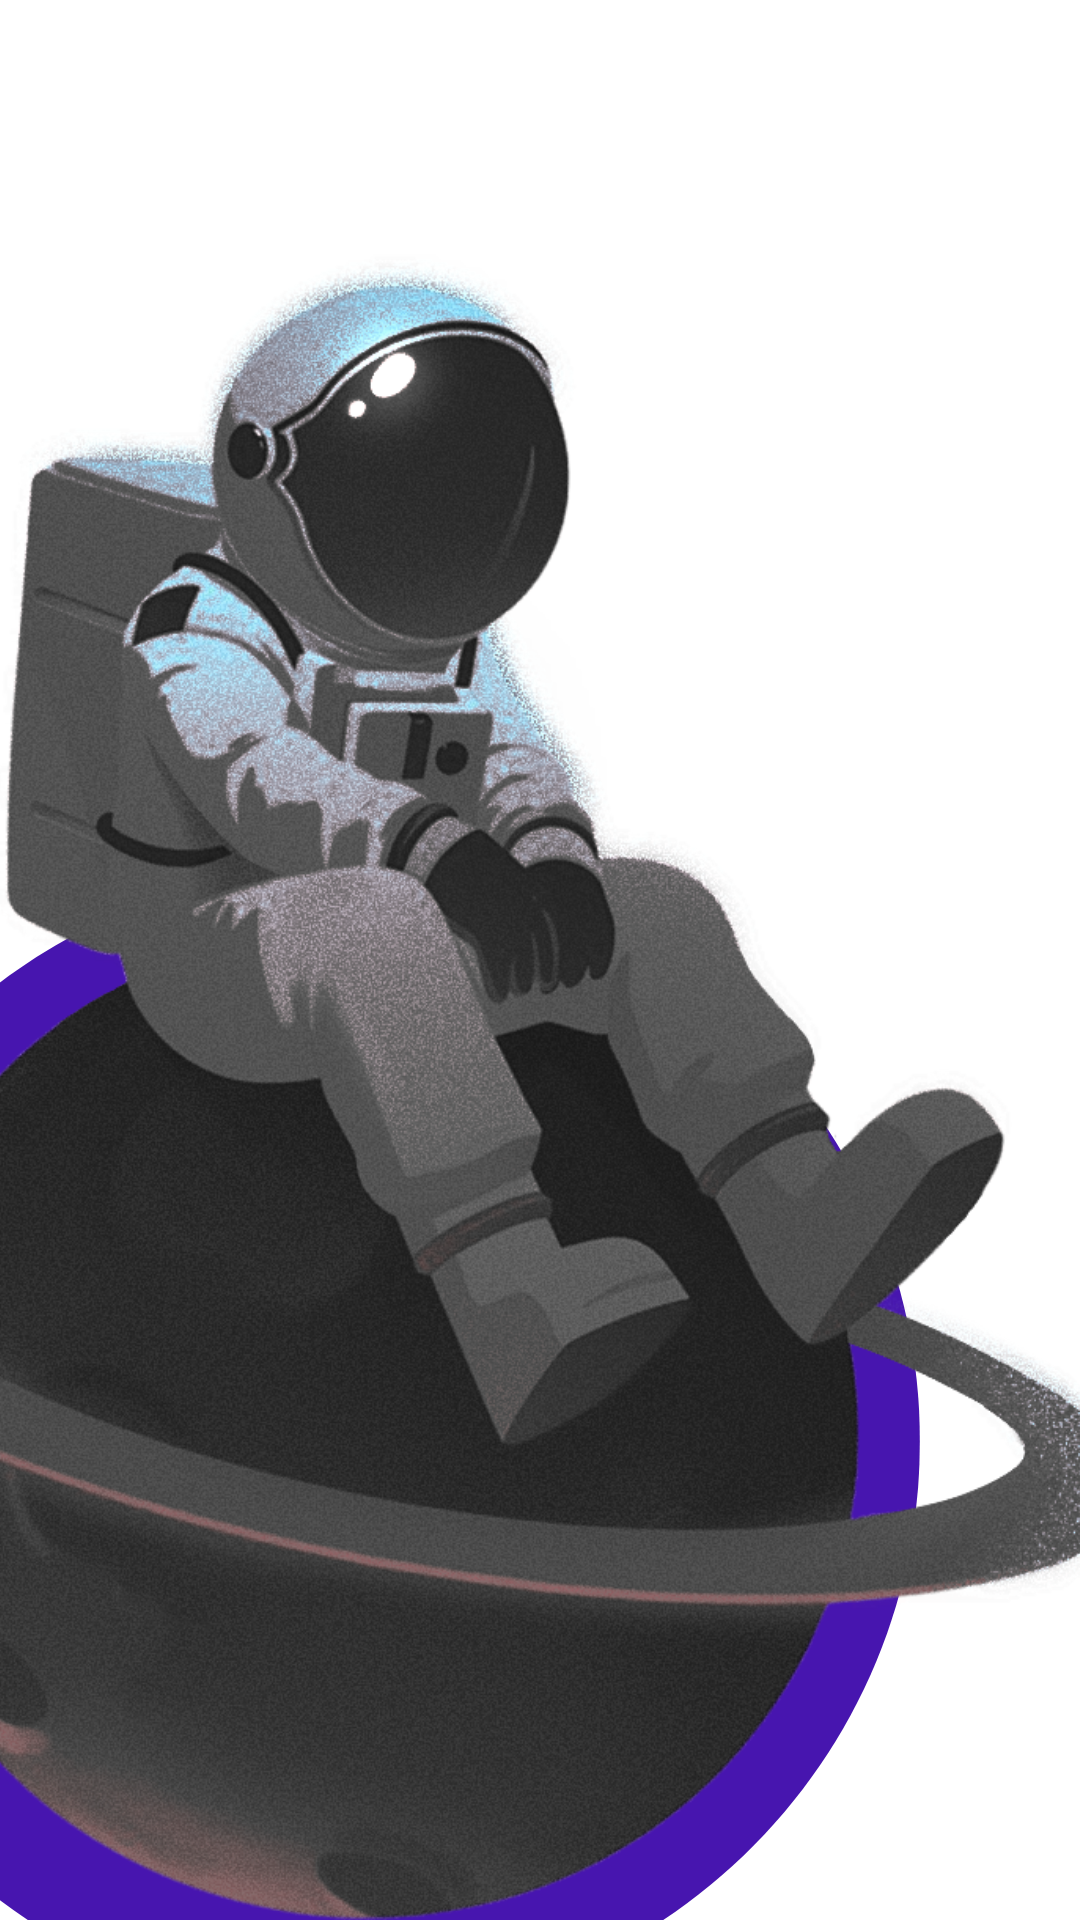
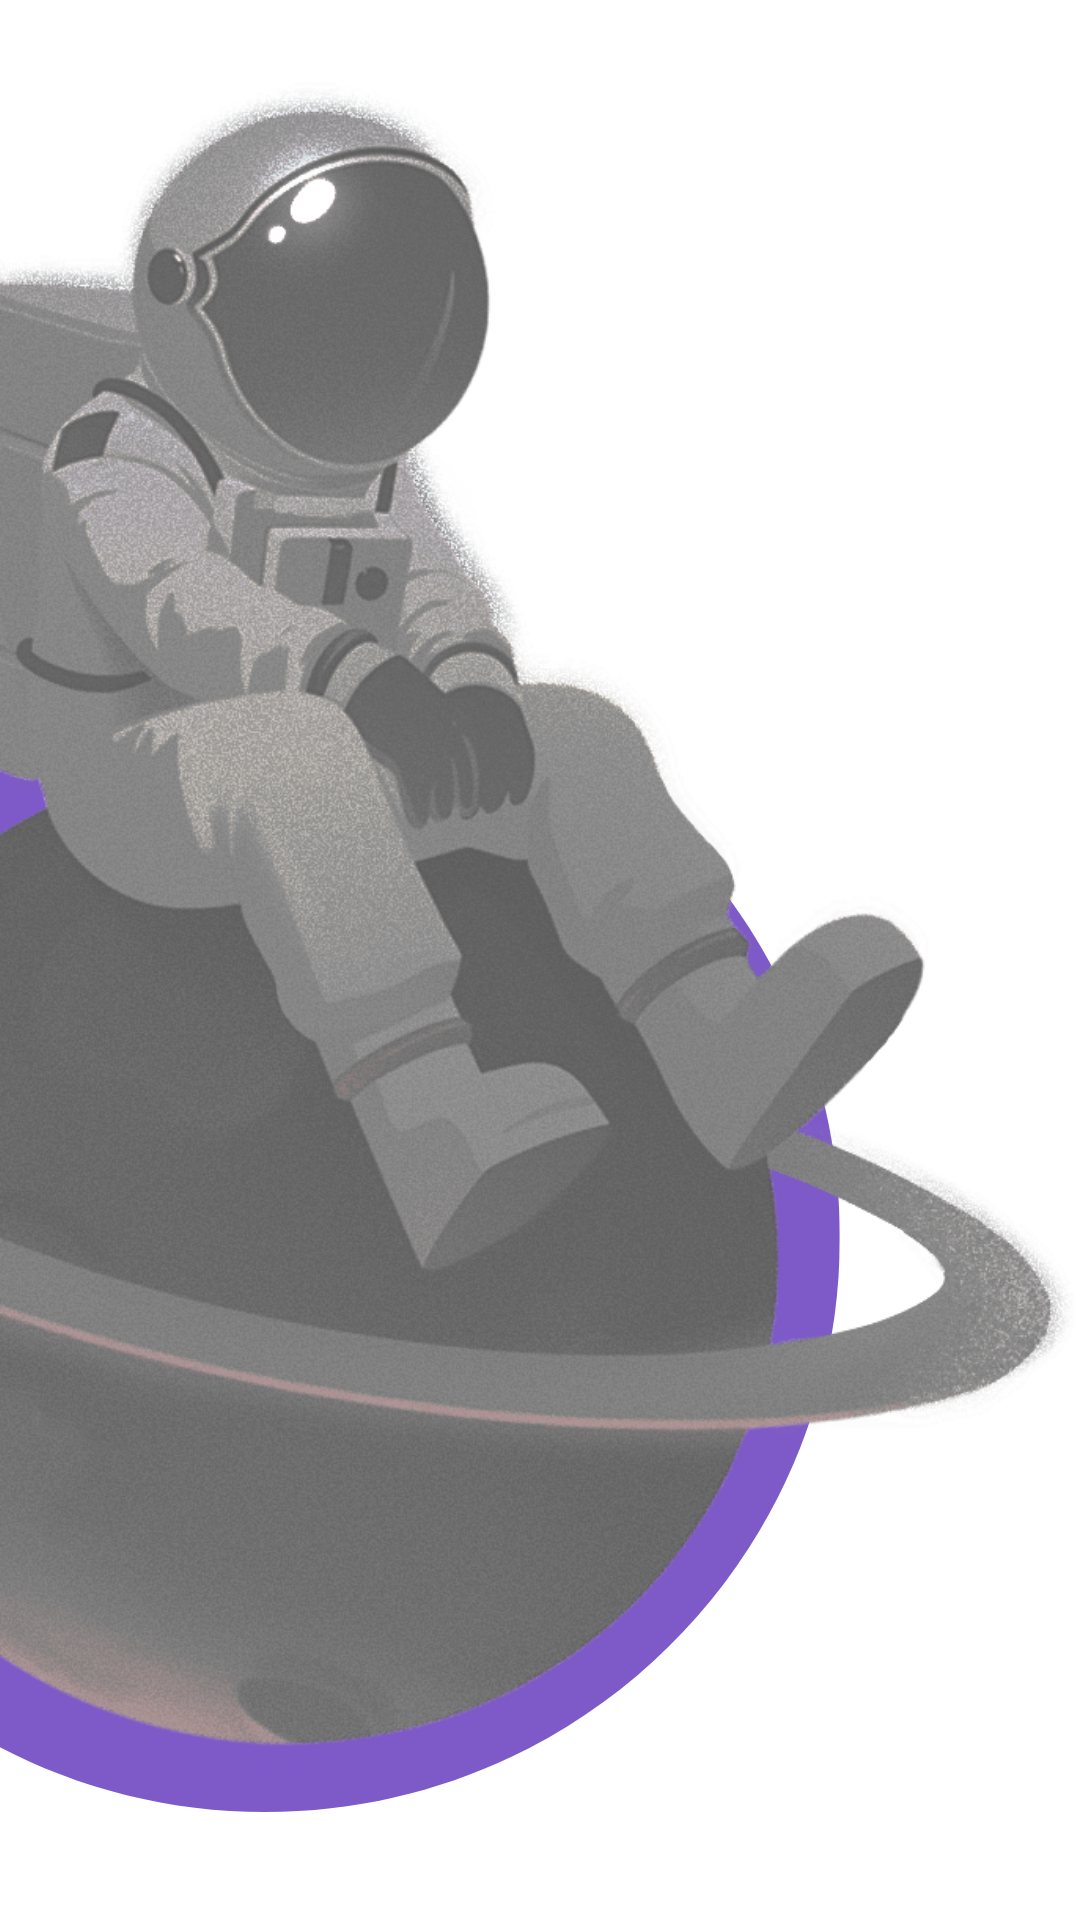
Ajustes na home-mobile

diff --git a/assets/css/style.css b/assets/css/style.css
@@ -19,6 +19,7 @@ header {
     background-color: var(--clr-black);
     color: var(--clr-white);
     box-shadow: 0px 4px 4px rgba(0, 0, 0, 0.2);
+    
 }
 
 header h1{
@@ -30,6 +31,7 @@ header nav{
     display: none;
     align-items: center;
     gap: 1.5rem;
+   
 }
 
 header nav a {
@@ -53,11 +55,13 @@ header nav a {
     justify-content: center;
     gap: 1.18rem;
     padding-inline: 1.5rem;
+
     background-image: url("../img/Astronauta.png");
-    height: 500px;
+    height: 741px;
     background-repeat: no-repeat;
     background-position: rem;
-    background-size: 320px;
+    background-size: 350px;
+    
 
 }
 

diff --git a/index.html b/index.html
@@ -24,8 +24,8 @@
             <div class="home-cta">
                 <div class="home-heading">
                 <p>Bem vinde ao meu mundo!</p>
-                <h1>Olá, sou Ana Cristina Meira</h1>
-                <p>Criando soluções inteligentes 
+                <h1>Olá, sou Ana Cristina<br>Meira</h1>
+                <p>Criando soluções inteligentes <br>
                     com código e automação.</p>
                 </div>
             <a href="http://github.com/anacmeira" target="_blank">@anacmeira</a>
